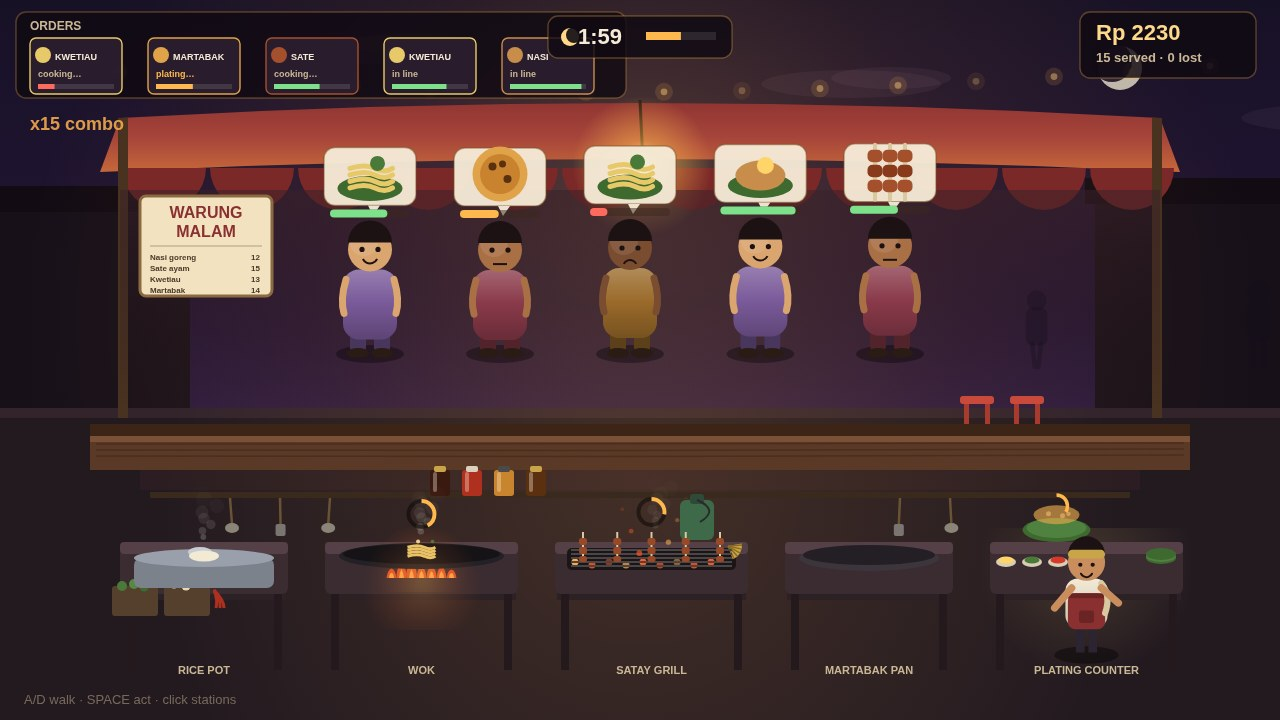
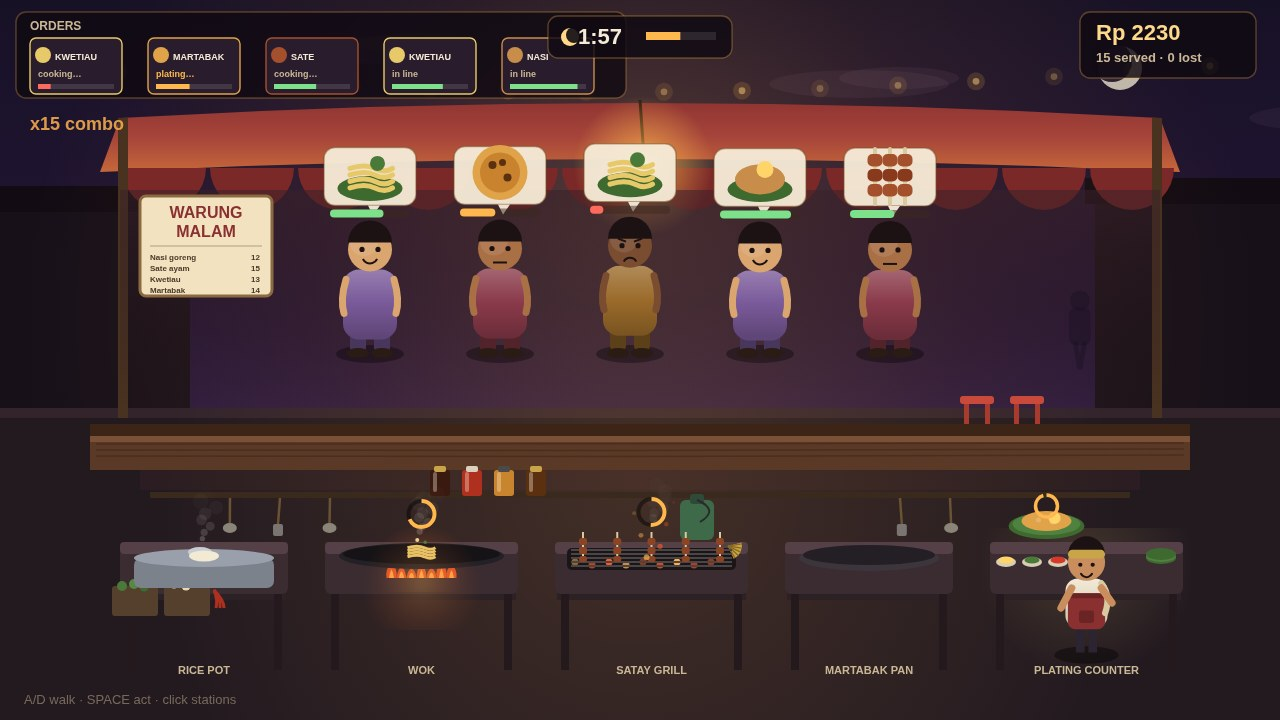
Order board capped at 4+overflow nub, plated/assembly enlarged and lifted, cover timing

diff --git a/game/src/render.js b/game/src/render.js
@@ -726,30 +726,30 @@ export function createRenderer(canvas) {
     ellipse(x + w - 14, y + 26, 15, 6, '#3f6a2f');
 
     // the plate mid-assembly, big and central: leaf plate, the mound lowering in, garnish after
-    const midX = x + w / 2 - 30;
+    const midX = x + w / 2 - 40;
     if (world.plating) {
       const dish = DISHES[world.plating.dishKey];
       const prog = world.plating.progress;
-      // leaf plate
-      ellipse(midX, y + 2, 34, 12, '#3f6a2f');
-      ellipse(midX, y, 30, 10, '#4f8240');
+      // leaf plate, lifted a touch so it clears the cook's silhouette
+      ellipse(midX, y - 2, 38, 13, '#3f6a2f');
+      ellipse(midX, y - 4, 34, 11, '#4f8240');
       // the food settling onto the leaf as plating progresses — slides in from above
       const drop = (1 - Math.min(1, prog * 1.8)) * 26;
       ctx.save();
       ctx.globalAlpha = Math.min(1, prog * 2);
       if (world.plating.dishKey === 'satay' || world.plating.dishKey === 'satayPadang') {
-        drawDishIcon(world.plating.dishKey, midX, y + 2 - drop, 1.7);
+        drawDishIcon(world.plating.dishKey, midX, y - 2 - drop, 2.1);
       } else {
-        ellipse(midX, y - 3 - drop, 23, 9.5, dish.color);
+        ellipse(midX, y - 7 - drop, 25, 10, dish.color);
         // grain texture
         ctx.fillStyle = shade(dish.color, 18);
-        circle(midX - 8, y - 4 - drop, 2.5, ctx.fillStyle);
-        circle(midX + 6, y - 2 - drop, 2.5, ctx.fillStyle);
-        circle(midX + 12, y - 4 - drop, 2.2, ctx.fillStyle);
+        circle(midX - 8, y - 8 - drop, 2.5, ctx.fillStyle);
+        circle(midX + 6, y - 6 - drop, 2.5, ctx.fillStyle);
+        circle(midX + 12, y - 8 - drop, 2.2, ctx.fillStyle);
       }
       // the garnish lands last
       const gar = GARNISH[dish.garnish];
-      if (prog > 0.55) circle(midX + 8, y - 6 - drop, 6, gar.color);
+      if (prog > 0.55) circle(midX + 8, y - 10 - drop, 6, gar.color);
       ctx.restore();
       // plating progress ring
       ctx.strokeStyle = COLOR.lampGlow;
@@ -763,9 +763,9 @@ export function createRenderer(canvas) {
     world.plated.forEach((p, i) => {
       const px = midX + 2 + i * 2;
       const py = y + 2 - i * 3;
-      ellipse(px, py, 34, 12, '#3f6a2f');
-      ellipse(px, py - 2, 30, 10, '#4f8240');
-      drawDishIcon(p.dishKey, px, py - 5, 2.2);
+      ellipse(px, py, 38, 13, '#3f6a2f');
+      ellipse(px, py - 2, 34, 11, '#4f8240');
+      drawDishIcon(p.dishKey, px, py - 6, 2.9);
       ctx.save();
       ctx.globalAlpha = 0.6 + 0.3 * Math.sin(world.time * 6 + i);
       text('SERVE', px, y - 22, 13, COLOR.serve, 'center', '800');

diff --git a/game/src/shots.js b/game/src/shots.js
@@ -23,7 +23,7 @@ function playForward(world, seconds) {
 }
 
 export function stageShot(world, which) {
-  if (which === 'cover') playForward(world, 120.3);
+  if (which === 'cover') playForward(world, 122.27);
   else if (which === 'rush') playForward(world, 163.7);
   else if (which === 'plate') playForward(world, 149);
   else if (which === 'end') playForward(world, 245);
